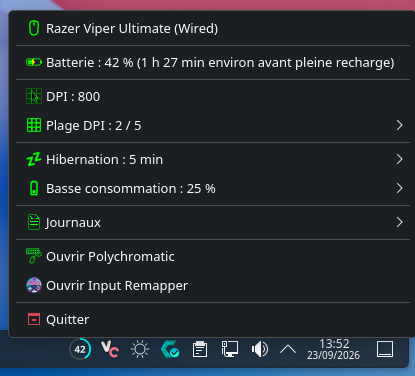
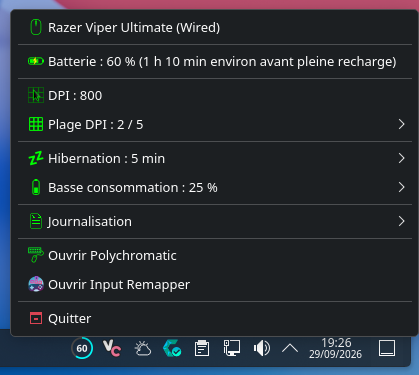
docs: update project documentation

diff --git a/README.md b/README.md
@@ -31,6 +31,10 @@ It supports both **Wayland and X11** sessions and is designed to handle wireless
 - [Hibernation](#hibernation)
 - [Low-power threshold](#low-power-threshold)
 - [Battery logging](#battery-logging)
+  - [Battery Logger](#battery-logger)
+  - [Charge Data](#charge-data)
+    - [Samples](#samples)
+    - [Model](#model)
 - [Battery notifications](#battery-notifications)
   - [Low-battery notifications](#low-battery-notifications)
   - [Charge complete notification](#charge-complete-notification)
@@ -39,6 +43,8 @@ It supports both **Wayland and X11** sessions and is designed to handle wireless
 - [Architecture](#architecture)
   - [Project structure](#project-structure)
 - [Development and testing](#development-and-testing)
+  - [Local checks](#local-checks)
+  - [Continuous integration](#continuous-integration)
 - [Third-party assets](#third-party-assets)
 - [License](#license)
 
@@ -49,7 +55,7 @@ It supports both **Wayland and X11** sessions and is designed to handle wireless
 - **DPI control**: Select the mouse DPI directly from the default DPI stages configured on the mouse;
 - **Hibernation**: Configure the mouse hibernation timeout to control its power consumption while idle;
 - **Low-power threshold**: Configure the battery level at which the mouse enters low-power mode;
-- **Battery logging**: Record battery data and build separate charging models for wired and wireless operation from real charging sessions;
+- **Battery logging**: Record battery data during usage and charging sessions, analyze recorded charging sessions, and build separate charging models for wired and wireless operation from real-world data;
 - **Battery notifications**: Receive notifications when the battery reaches configured low-battery thresholds or when charging is complete;
 - **Hotplug support**: Automatically handle mouse disconnection and reconnection without restarting the application;
 - **External tools**: Launch compatible tools such as Polychromatic and Input Remapper directly from the tray menu.
@@ -75,6 +81,7 @@ The following packages are managed automatically:
 
 - `python` >= 3.11;
 - `pyside6` >= 6.6;
+- `qt6-svg` >= 6.6;
 - `kstatusnotifieritem` >= 6.0;
 - `python-gobject` >= 3.44;
 - `libnotify` >= 0.8.0;
@@ -196,7 +203,7 @@ The tray menu provides access to the mouse status and the application's main con
 - **DPI**: Displays the currently selected DPI and provides access to the available DPI stages;
 - **Hibernation**: Configures the mouse hibernation timeout;
 - **Low-power threshold**: Configures the battery level at which the mouse enters low-power mode;
-- **Battery log**: Starts and stops battery logging;
+- **Battery logging**: Provides access to the battery logger and charge data management;
 - **Polychromatic**: Provides a direct link to launch Polychromatic when it is installed;
 - **Input Remapper**: Provides a direct link to launch Input Remapper when it is installed.
 
@@ -270,17 +277,79 @@ When the selected threshold is reached, the mouse enters low-power mode. In this
 
 ## Battery logging
 
-Viper Ultimate Tray allows you to start and stop battery logging directly from the tray menu.
+Viper Ultimate Tray provides two complementary tools for recording and analyzing battery data: the **Battery Logger** records battery changes over time, while **Charge Data** provides access to recorded charging samples and the charging models built from them.
 
-When logging is stopped, **Start** is available and **Stop** is disabled.
+### Battery Logger
 
-![Viper Ultimate Tray with battery logging stopped](docs/screenshots/tray/battery-logs-stopped.png)
+The **Battery Logger** records battery data while the mouse is being used or charged.
 
-When logging is active, **Stop** is available and **Start** is disabled.
+The logger can be opened from **Journalisation** in the tray menu.
 
-![Viper Ultimate Tray with battery logging active](docs/screenshots/tray/battery-logs-started.png)
+![Viper Ultimate Tray Journalisation menu](docs/screenshots/tray/battery-logs.png)
 
-Battery logs are used to build the charge estimation models for wired and wireless charging.
+When the Battery Logger window is opened without an active logging session, the window displays the available controls and an empty log.
+
+![Viper Ultimate Tray Battery Logger before logging starts](docs/screenshots/battery-logging/battery-logger-unstarted.png)
+
+Clicking **Démarrer** starts the battery logger. The window displays the detected initial mode, the logging interval, and the duration of the current logging session. The duration is updated while logging is active.
+
+![Viper Ultimate Tray Battery Logger while logging](docs/screenshots/battery-logging/battery-logger-started.png)
+
+The logger records a new entry when the battery percentage or charging state changes.
+
+While logging is active, the **Journalisation** menu displays the elapsed time of the current logging session.
+
+![Viper Ultimate Tray Journalisation menu with battery logging in progress](docs/screenshots/tray/battery-logging-started.png)
+
+Clicking **Arrêter** stops the logging session. The final duration remains displayed in the window after the logger has stopped.
+
+![Viper Ultimate Tray Battery Logger after logging has stopped](docs/screenshots/battery-logging/battery-logger-finished.png)
+
+### Charge Data
+
+The **Charge Data** window provides access to the charging samples recorded by the Battery Logger and to the charging models calculated from those samples.
+
+#### Samples
+
+The **Samples** tab lists the recorded charging samples separately for wired and wireless charging.
+
+When no sample is selected, the detail area remains empty.
+
+![Viper Ultimate Tray Charge Data samples without a selected sample](docs/screenshots/battery-logging/charge-data-samples-unselected.png)
+
+Selecting a sample displays its charging mode, creation date, and the recorded duration for each battery level.
+
+![Viper Ultimate Tray selected charge data sample](docs/screenshots/battery-logging/charge-data-samples-selected.png)
+
+A selected sample can be modified with **Modifier**. During editing, the recorded durations can be changed or removed according to the validation rules displayed below the table.
+
+![Viper Ultimate Tray editing a charge data sample](docs/screenshots/battery-logging/charge-data-samples-editing.png)
+
+If the entered values are invalid, the changes are rejected and a warning is displayed.
+
+![Viper Ultimate Tray invalid charge data sample modification](docs/screenshots/battery-logging/charge-data-samples-editing-cancel.png)
+
+When the values are valid, clicking **Enregistrer** saves the modifications and displays a confirmation message.
+
+![Viper Ultimate Tray successful charge data sample modification](docs/screenshots/battery-logging/charge-data-samples-editing-success.png)
+
+Samples can also be deleted with **Supprimer**. The application asks for confirmation before permanently deleting the selected sample.
+
+![Viper Ultimate Tray charge data sample deletion confirmation](docs/screenshots/battery-logging/charge-data-samples-delete-confirmation.png)
+
+After the deletion has been completed, a confirmation message is displayed.
+
+![Viper Ultimate Tray charge data sample deletion confirmation message](docs/screenshots/battery-logging/charge-data-samples-delete-confirmed.png)
+
+#### Model
+
+The **Model** tab displays the charging models calculated from the recorded samples.
+
+Separate models are maintained for wired and wireless charging. For each battery level, the table displays the average duration for that level and the cumulative duration required to reach 100%, together with the differences between wired and wireless charging.
+
+The model is displayed in read-only mode.
+
+![Viper Ultimate Tray charge data model](docs/screenshots/battery-logging/charge-data-model.png)
 
 ## Battery notifications
 
@@ -314,7 +383,7 @@ When the mouse is disconnected, the tray icon changes to the disconnected state 
 
 ![Viper Ultimate Tray with the mouse disconnected](docs/screenshots/tray/disconnected.png)
 
-Battery logging remains active if it was already running, allowing it to be stopped while the mouse is disconnected. If logging is not running, the **Start** action is disabled until the mouse is reconnected.
+Battery logging remains active if it was already running, allowing it to be stopped while the mouse is disconnected. If logging is not running, the **Démarrer** action is disabled until the mouse is reconnected.
 
 When the mouse becomes available again, Viper Ultimate Tray automatically detects the reconnection and resumes monitoring the mouse. The battery logging controls are restored according to the current logging state.
 
@@ -322,9 +391,9 @@ No application restart is required.
 
 ## Mouse Poller
 
-The **Mouse Poller** is responsible for periodically checking the mouse connection state and notifying the application when that state changes.
+The **Mouse Poller** is responsible for periodically checking the mouse state and notifying the application of the latest state.
 
-It uses a Qt timer to poll the mouse every **2 seconds** by default.
+The polling runs in a dedicated background thread, independently from the Qt application thread, with an interval of **2 seconds** by default.
 
 For each poll, the current mouse state is retrieved through the OpenRazer interface:
 
@@ -336,7 +405,7 @@ The poller keeps track of the previous connection state so that connection and d
 
 When a previously disconnected mouse becomes available again, the poller notifies the application with the new `MouseState`, allowing the application to restore its normal state and controls.
 
-The poller runs continuously while the application is running and does not require the application to be restarted after a mouse disconnection.
+The polling thread runs continuously while the application is running and does not block the Qt application thread. A mouse disconnection does not require the application to be restarted.
 
 ## Architecture
 
@@ -356,7 +425,9 @@ The repository is organized into the application source code and tests.
 
 ## Development and testing
 
-The repository includes tests for the project.
+The repository includes an automated test suite and continuous integration checks.
+
+### Local checks
 
 Run the test suite with:
 
@@ -369,10 +440,25 @@ Check the code with:
 ```bash
 ruff check .
 ruff format --check .
-vulture .
+vulture . vulture_whitelist.txt
 ```
 
-The reported `vulture` warnings have been reviewed and are known false positives.
+The Vulture whitelist contains the symbols that are intentionally considered used by the project but cannot be detected by Vulture's static analysis.
+
+### Continuous integration
+
+The project uses **GitHub Actions** to automatically validate changes pushed to the repository.
+
+The CI workflow runs the same code quality and test checks used during local development:
+
+- Ruff linting;
+- Ruff formatting verification;
+- Vulture analysis with the project whitelist;
+- the complete pytest test suite.
+
+The checks run in an Arch Linux environment to match the target distribution as closely as possible.
+
+A change is considered validated when all CI checks complete successfully.
 
 ## Third-party assets
 
@@ -381,7 +467,6 @@ The following menu icons are provided by [Polychromatic](https://github.com/poly
 - `src/icons/menu/dpi.svg`;
 - `src/icons/menu/fast.svg`;
 - `src/icons/menu/hibernation.svg`;
-- `src/icons/menu/mouse.svg`;
 - `src/icons/menu/openrazer.svg`;
 - `src/icons/menu/polychromatic.svg`;
 - `src/icons/menu/slow.svg`;
